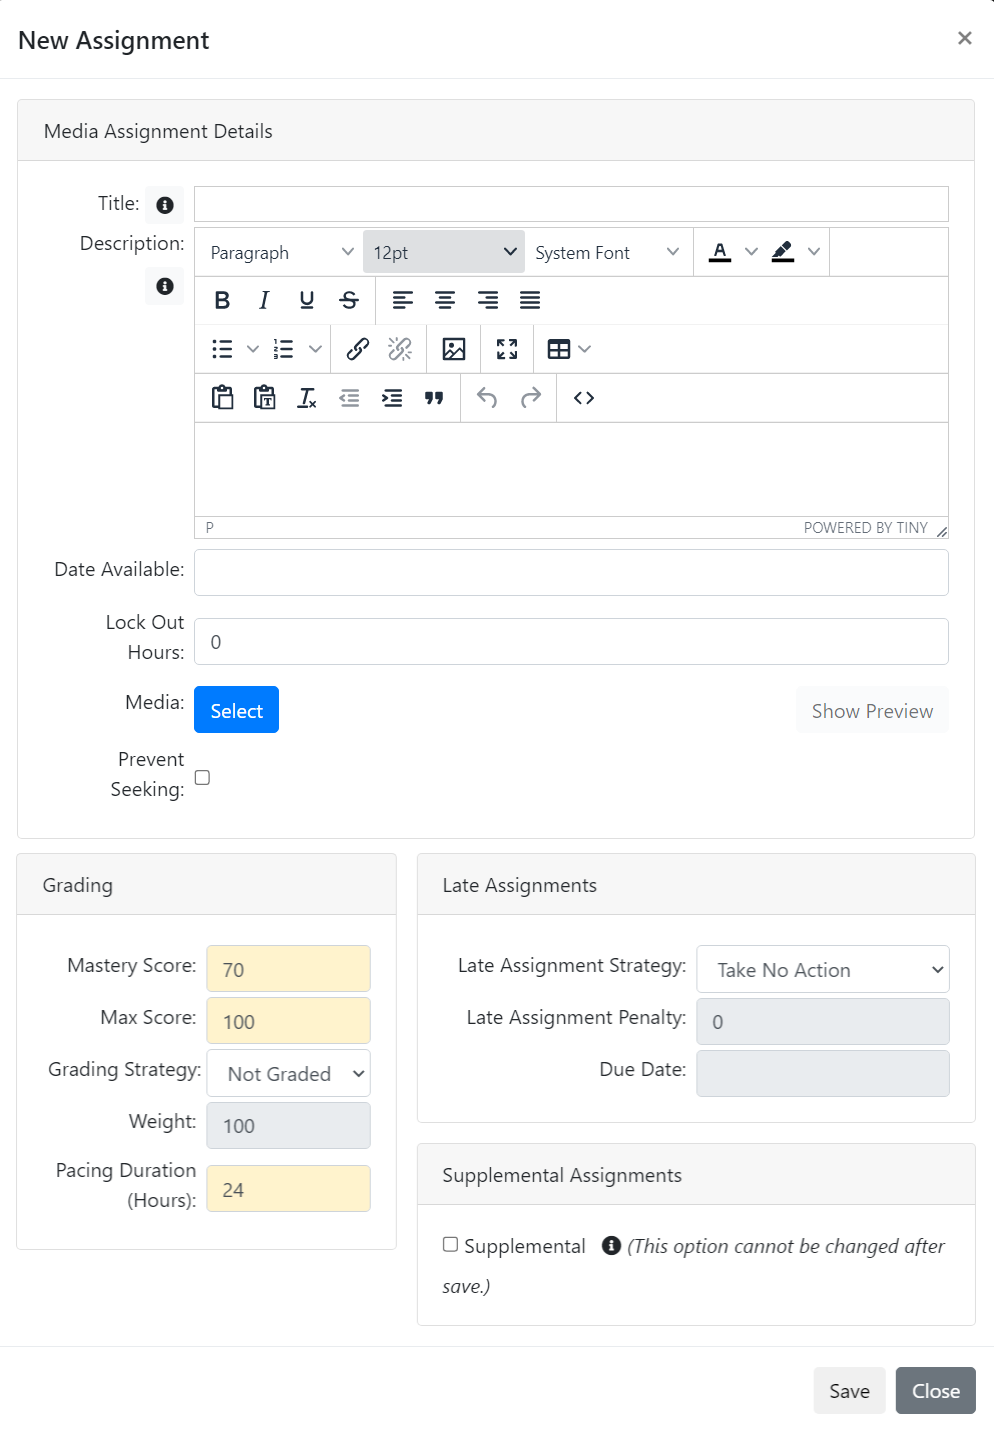
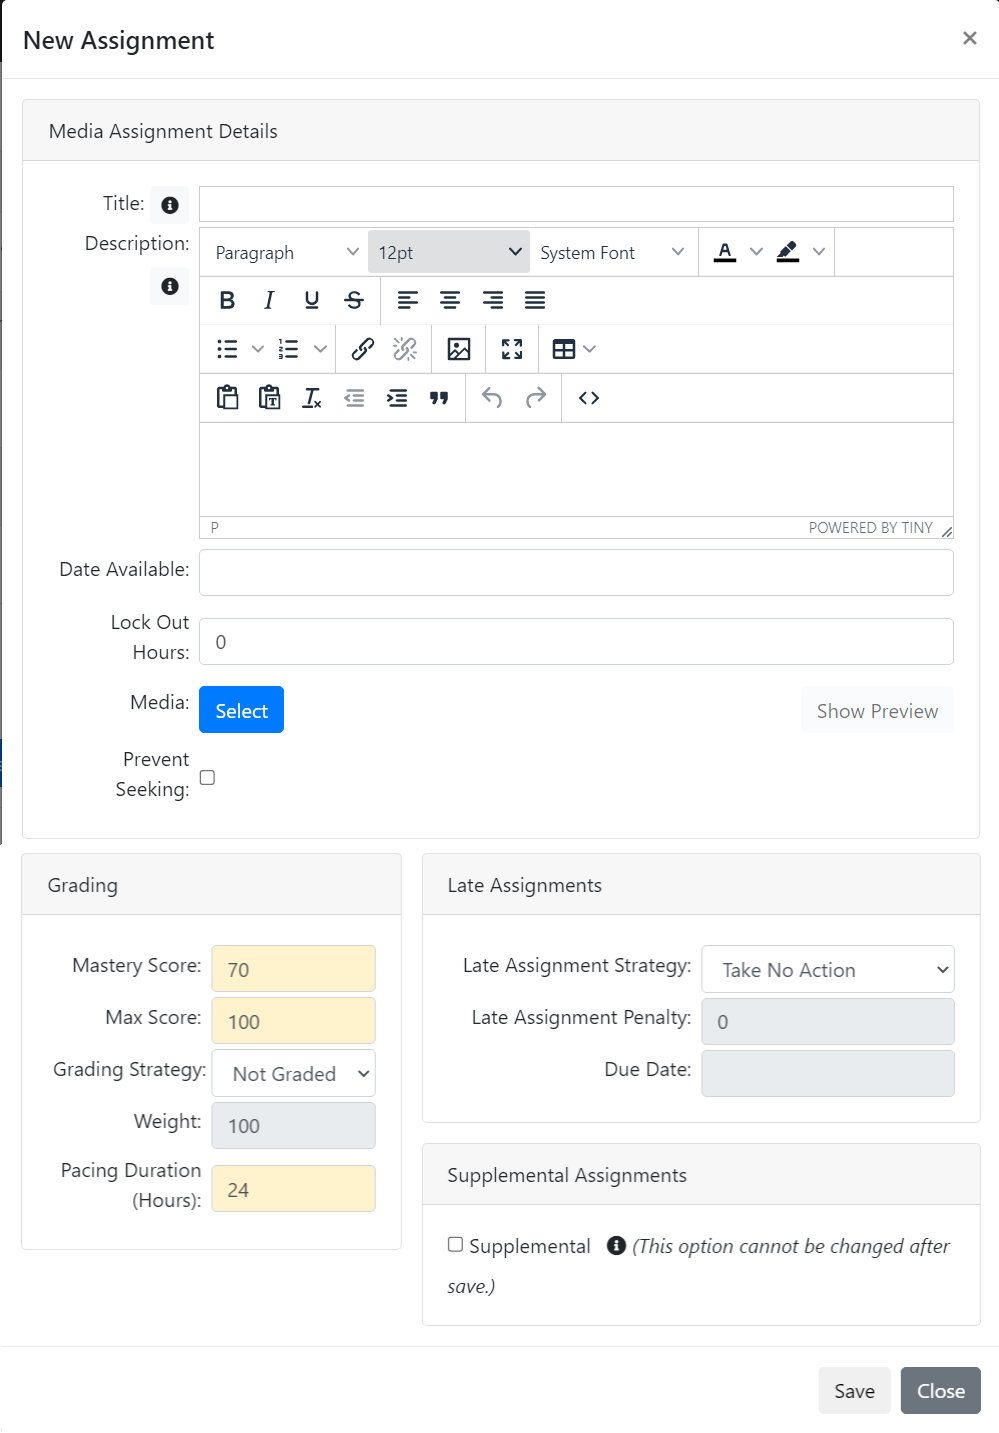
GITBOOK-160: change request with no subject merged in GitBook

diff --git a/administrator-documentation/administrator-quick-start/scorm-best-practices.md b/administrator-documentation/administrator-quick-start/scorm-best-practices.md
@@ -38,6 +38,16 @@ Curriculum developers frequently QA their course in their authoring environment 
 
 The manifest identifiers should only contain letter, numbers, dashes and underscores.
 
+```xml
+<organization identifier="acme_course_101">
+      <title>Acme Course 101</title>
+      <item identifier="acme_course_101" isvisible="true" identifierref="__6pvVJupxRfVhiv_RES">
+        <title>acme_course_101</title>
+      </item>
+    </organization>
+  </organizations>
+```
+
 ## Consider Implementing Improved SCORM (iSCORM)
 
 Not all tools support the iSCORM specification.

diff --git a/administrator-documentation/my-training-admin/instructor/assignments/assignment-feedback-1/courseware-assignment.md b/administrator-documentation/my-training-admin/instructor/assignments/assignment-feedback-1/courseware-assignment.md
@@ -9,7 +9,7 @@ description: >-
 
 You are here: [My Training](../../../) > [Instructor](../../) > [Assignment Types](./) > Courseware assignment
 
-<figure><img src="../../../../../.gitbook/assets/instructor_courseware.png" alt=""><figcaption></figcaption></figure>
+<figure><img src="../../../../../.gitbook/assets/instructor_courseware (1).png" alt=""><figcaption></figcaption></figure>
 
 When a SCORM courseware is uploaded to your organization you can make it available to students within a section using the Courseware Assignment.
 

diff --git a/administrator-documentation/my-training-admin/instructor/assignments/assignment-feedback-1/page-3.md b/administrator-documentation/my-training-admin/instructor/assignments/assignment-feedback-1/page-3.md
@@ -14,7 +14,7 @@ Currently, NexPort supports any video format, which is transcoded to MP4 so it w
 
 ## The Media Assignment Type
 
-<figure><img src="../../../../../.gitbook/assets/instructor_media (1).png" alt=""><figcaption><p>Edit/Create Media Assignment dialog</p></figcaption></figure>
+<figure><img src="../../../../../.gitbook/assets/instructor_media.png" alt=""><figcaption><p>Edit/Create Media Assignment dialog</p></figcaption></figure>
 
 
 
